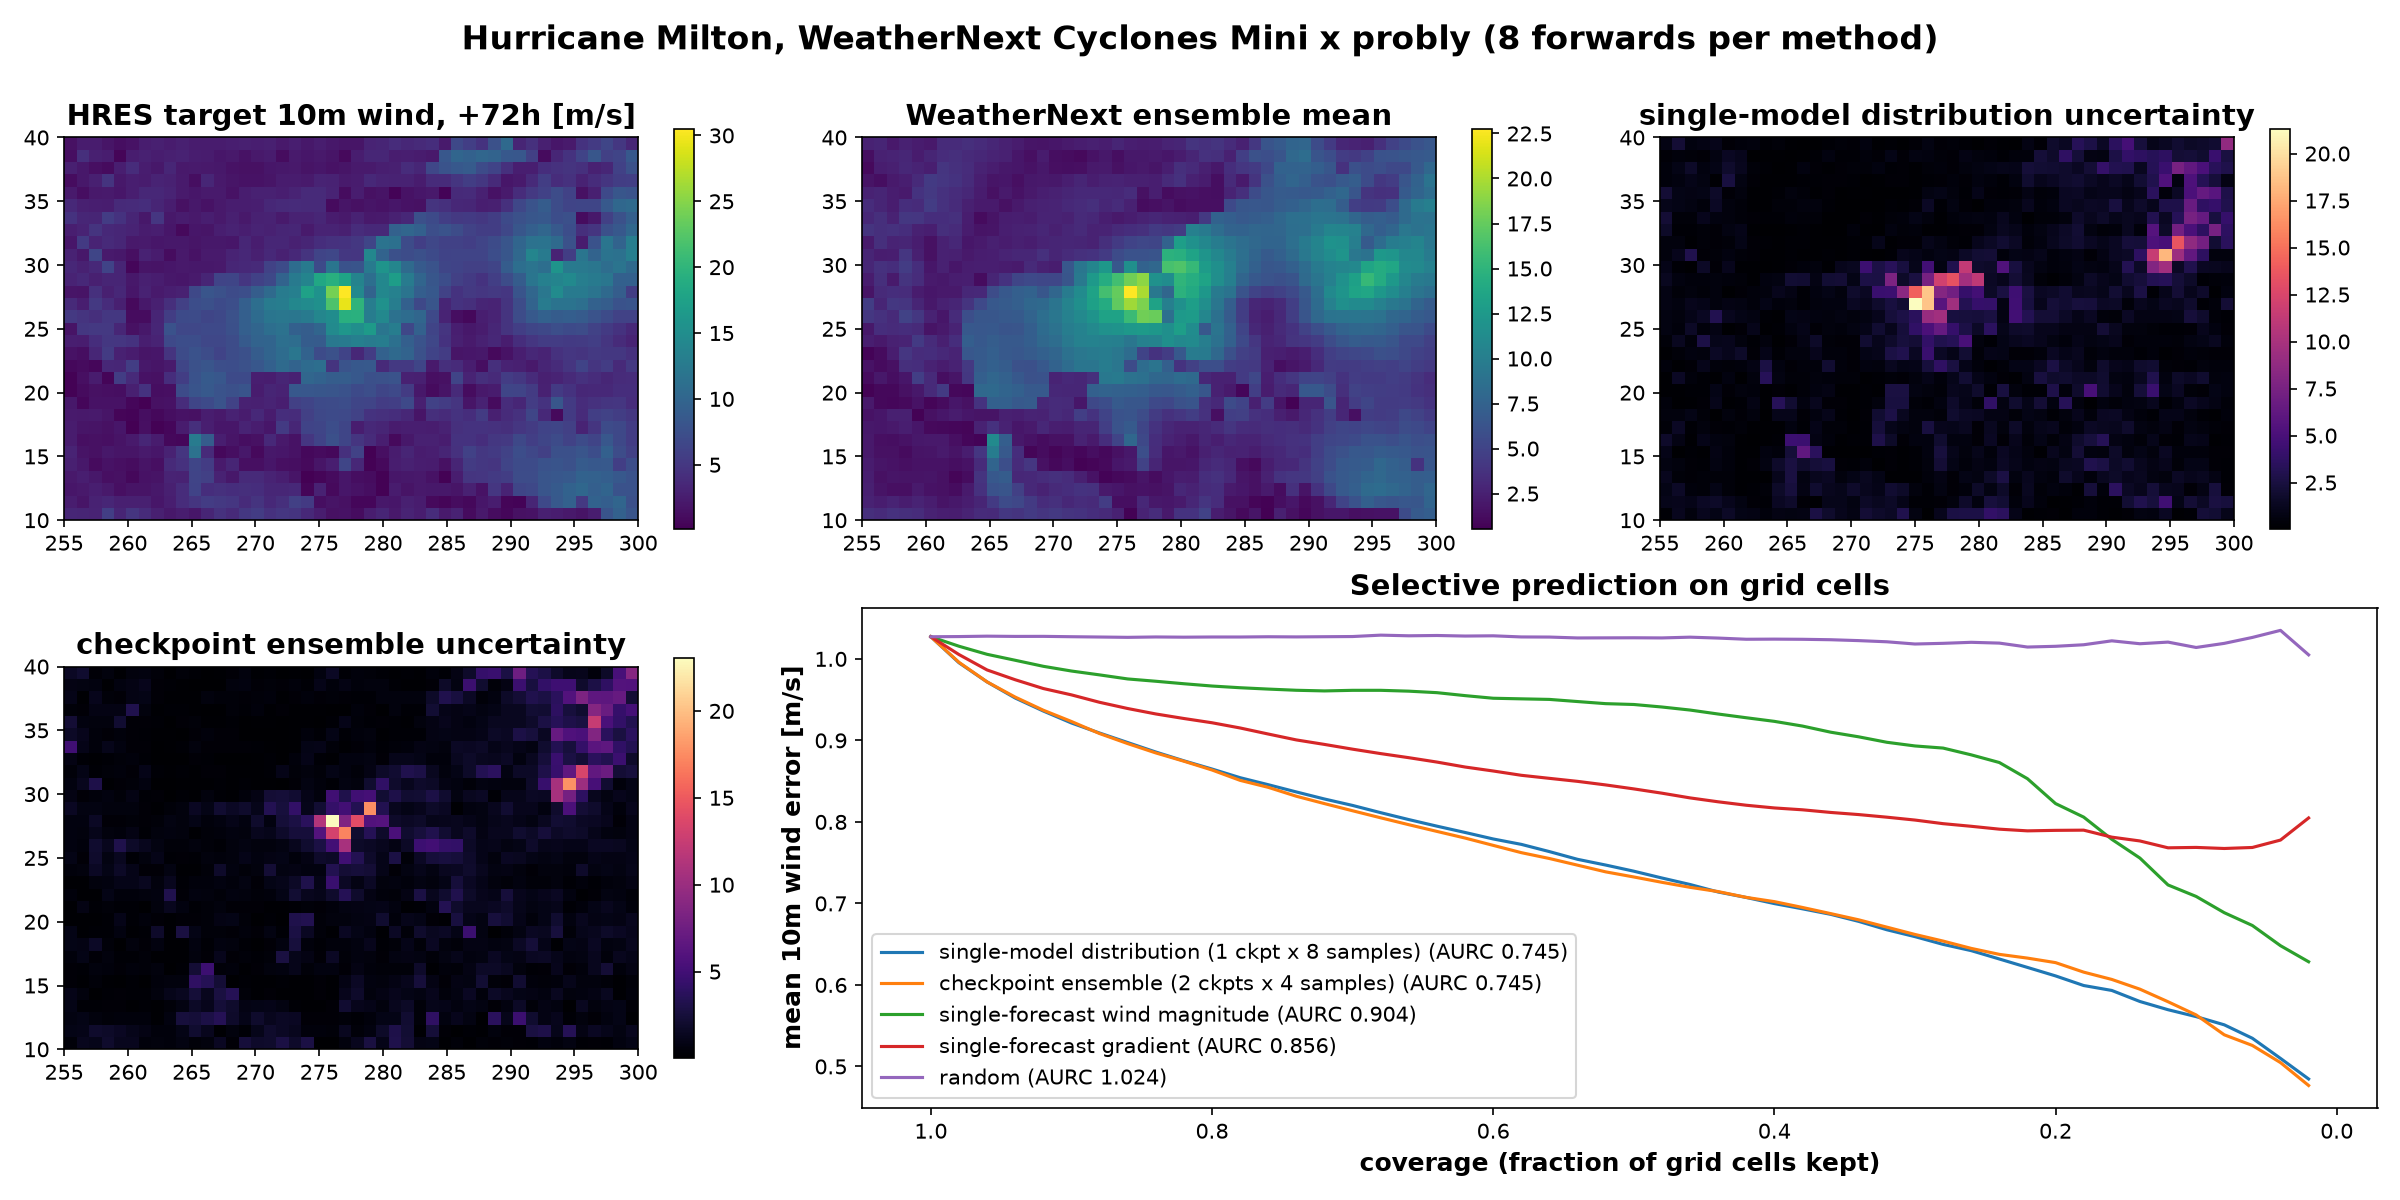
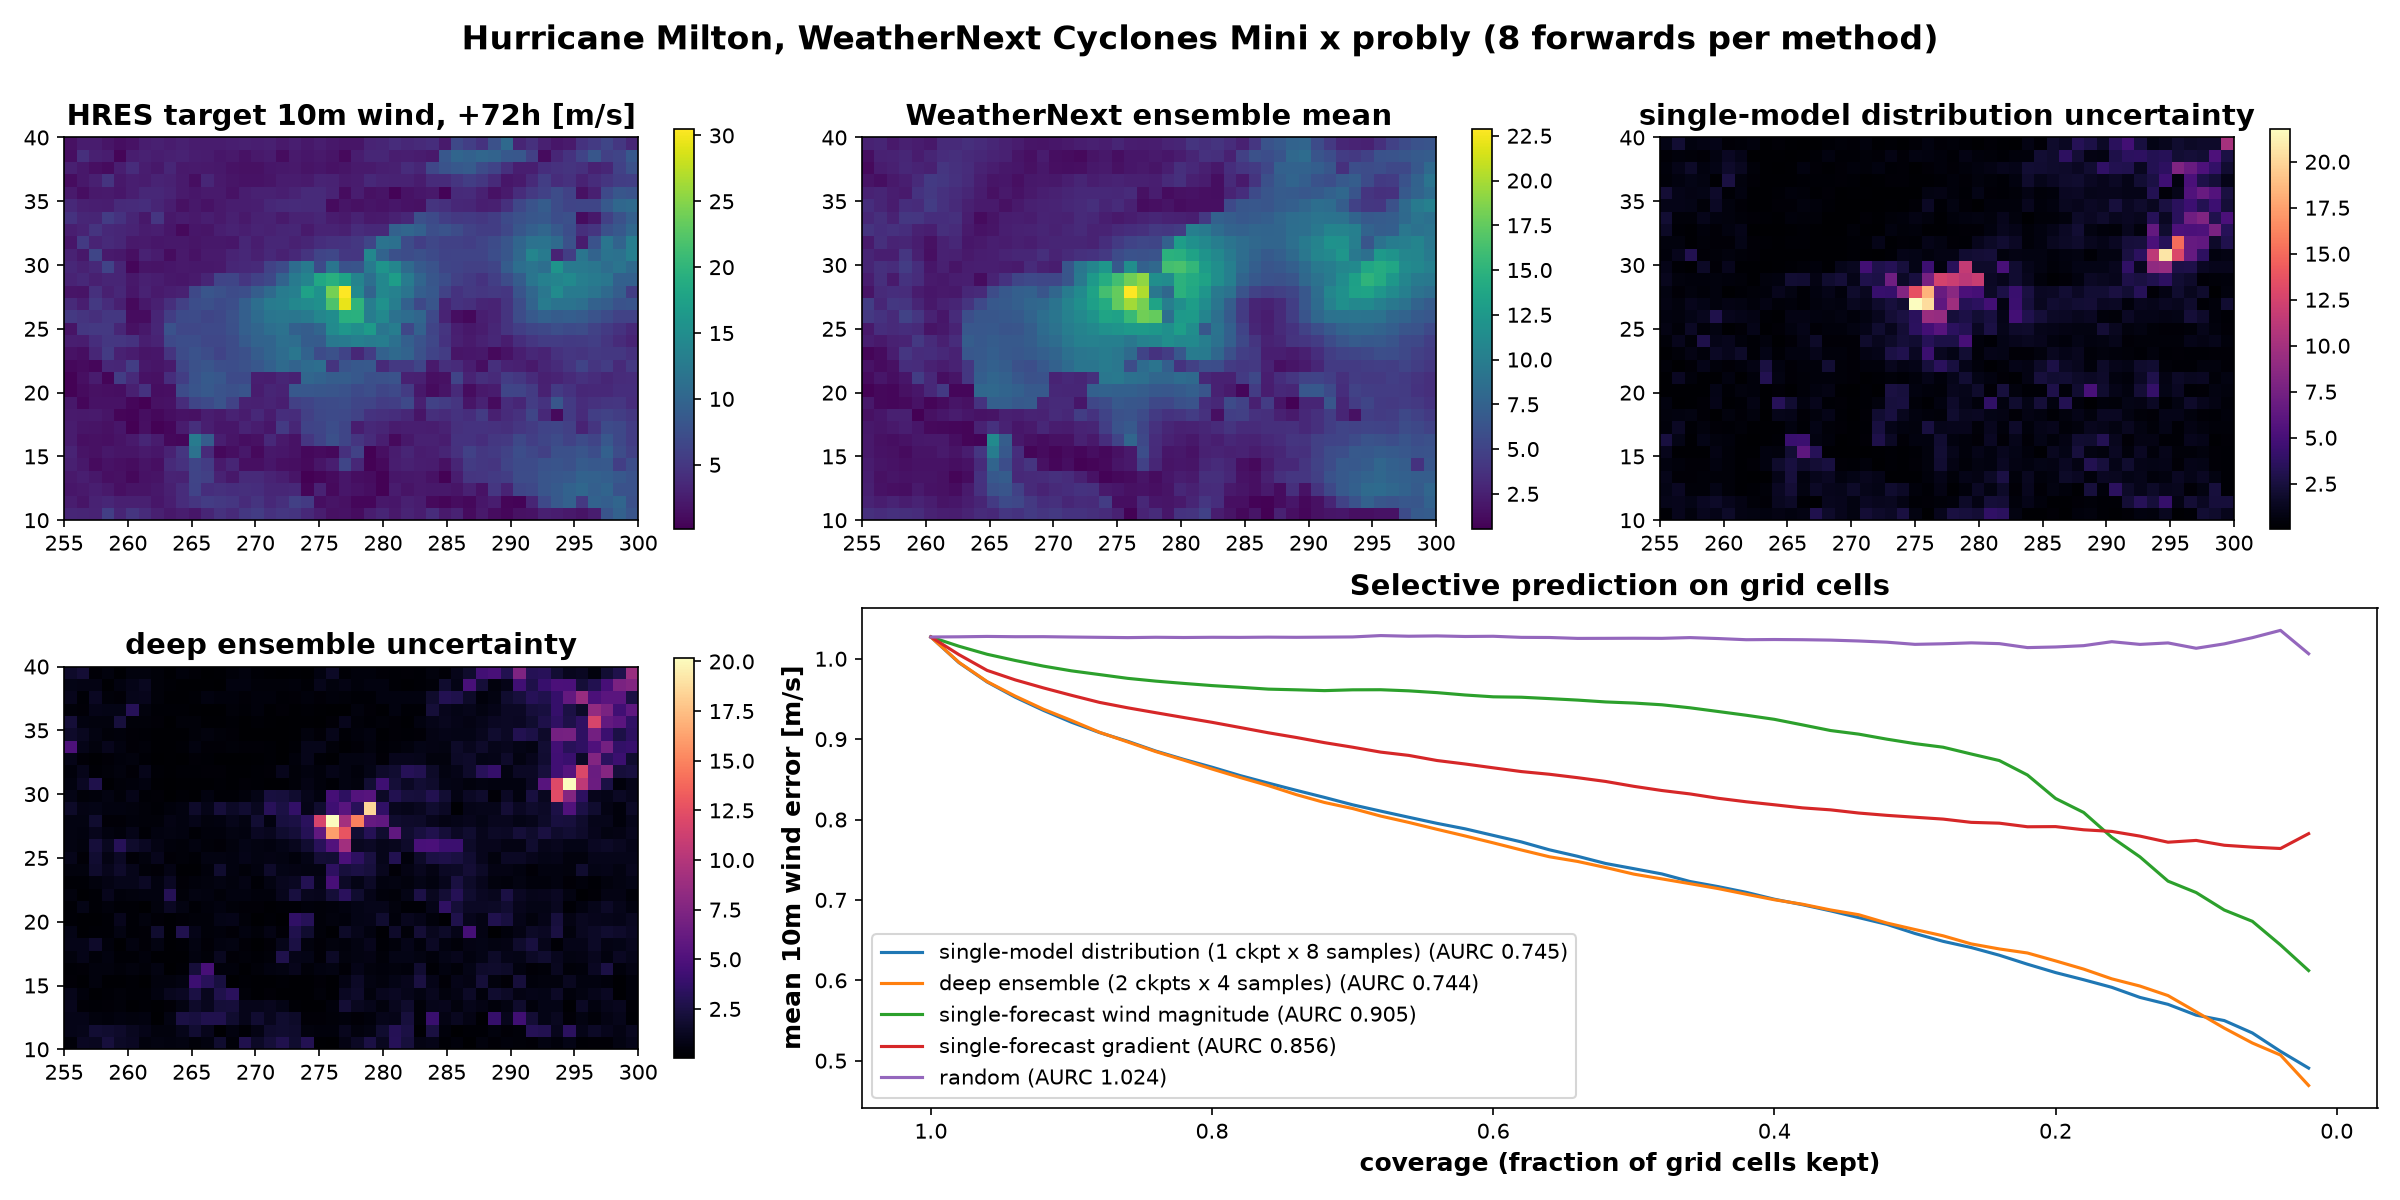
Rename checkpoint ensemble to deep ensemble

diff --git a/examples/integrations/weathernext_uncertainty.py b/examples/integrations/weathernext_uncertainty.py
@@ -13,8 +13,9 @@ The scenario is Hurricane Milton (initialization 2024-10-07, landfall in Florida
 72 hours ahead. Compared head-to-head at identical compute (eight forward rollouts each):
 
 * the **single-model distribution**: one checkpoint, eight samples of its learned generative noise;
-* a **checkpoint ensemble**: two independently trained checkpoints, four samples each, adding epistemic
-  weight-space diversity;
+* a small **deep ensemble**: the two independently trained released checkpoints, four samples each,
+  adding epistemic weight-space diversity (training-time methods like SWAG are not applicable here,
+  since only final weights are released, not training trajectories);
 * two **single-forecast heuristics** that need no distribution at all (strong winds and sharp gradients
   are hard to predict), plus random rejection.
 
@@ -109,7 +110,7 @@ run_forward_params = jax.jit(lambda params, rng, i, t, f: run_forward.apply(para
 #
 # ``make_ensemble_fn`` builds a bulk forecast function: members are split evenly
 # across the given checkpoints (one checkpoint gives the single-model generative
-# distribution, two give a checkpoint ensemble) and rolled out with the pmapped
+# distribution, two give a small deep ensemble) and rolled out with the pmapped
 # WeatherNext machinery, parallelized across the available GPUs.
 
 
@@ -144,14 +145,14 @@ def make_ensemble_fn(member_params):
 
 
 single_model = WeatherNextPredictor(ensemble_fn=make_ensemble_fn([checkpoints["2024"].params]))
-checkpoint_ensemble = WeatherNextPredictor(
+deep_ensemble = WeatherNextPredictor(
     ensemble_fn=make_ensemble_fn([checkpoints["2024"].params, checkpoints["2023"].params])
 )
 
 samples_single = representer(single_model, num_samples=NUM_MEMBERS).represent(
     eval_inputs, eval_targets * np.nan, eval_forcings
 )
-samples_ckpt = representer(checkpoint_ensemble, num_samples=NUM_MEMBERS).represent(
+samples_ckpt = representer(deep_ensemble, num_samples=NUM_MEMBERS).represent(
     eval_inputs, eval_targets * np.nan, eval_forcings
 )
 
@@ -193,7 +194,7 @@ gradient = np.hypot(*np.gradient(single_forecast))
 rng = np.random.default_rng(0)
 criteria = {
     "single-model distribution (1 ckpt x 8 samples)": wind_uncertainty[t].ravel(),
-    "checkpoint ensemble (2 ckpts x 4 samples)": ckpt_uncertainty[t].ravel(),
+    "deep ensemble (2 ckpts x 4 samples)": ckpt_uncertainty[t].ravel(),
     "single-forecast wind magnitude": single_forecast.ravel(),
     "single-forecast gradient": gradient.ravel(),
     "random": rng.permutation(len(errors)).astype(float),
@@ -222,7 +223,7 @@ panels = [
     ("target", crop(target_wind[t]), f"HRES target 10m wind, +{lead}h [m/s]", "viridis"),
     ("mean", crop(wind_mean[t]), "WeatherNext ensemble mean", "viridis"),
     ("single_unc", crop(wind_uncertainty[t]), "single-model distribution uncertainty", "magma"),
-    ("ckpt_unc", crop(ckpt_uncertainty[t]), "checkpoint ensemble uncertainty", "magma"),
+    ("ckpt_unc", crop(ckpt_uncertainty[t]), "deep ensemble uncertainty", "magma"),
 ]
 for key, data, title, cmap in panels:
     im = axes[key].imshow(data, origin=origin, extent=extent, cmap=cmap)
